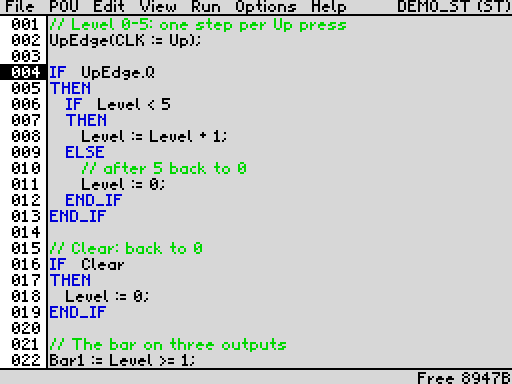
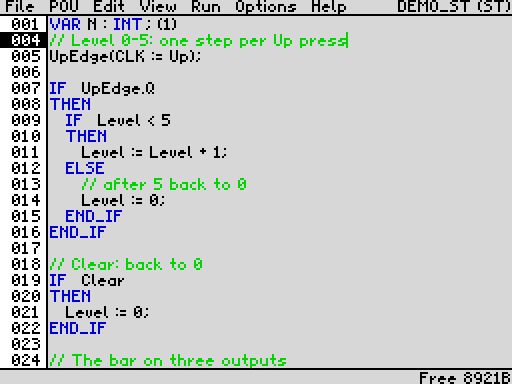
ST local variables: demo, manual, screenshots
DEMO_ST declares its FOR counter N as a local (the N symbol on %MW3 is
gone). Manual chapter 9: local variables (syntax, folding, the
declaration popup, simulation), limits; README, CLAUDE.md; a new
screenshot st_vars.

Claude-Session: https://claude.ai/code/session_01VKWfWdLZ4jVfo626yCcR9d

diff --git a/tools/docshots.py b/tools/docshots.py
@@ -41,6 +41,7 @@ SHOTS = [
     ("fbd_picker", FBD + D + "k:ENTER w30"),
     ("fbd_pv", FBD + D * 6 + "k:CS+8 w4 " * 5 + "k:T w30"),
     ("st_editor", ST + D * 3 + "w10"),
+    ("st_vars", ST + D * 4 + "k:SS+ENTER w30 t:count~:=~count~+~1; w5 " + D + "w40"),
     ("symbols", MENU + "k:E w5 k:S w60"),
     ("sim_il", IL + RUN + "k:0 w150"),
     ("sim_ld", LD + RUN + "k:4 w60"),

diff --git a/CLAUDE.md b/CLAUDE.md
@@ -106,14 +106,14 @@ editor and key for users.
   - The project at 0x9000-0xBFFF (12 KB).
 - **Paged banks at 0xC000.** `main.asm` decides which module goes where:
   - EDIT 0: IL, LD and symbol editors, simulation screen, tests (~2.8 KB free).
-  - RUN 4: compilers (also `src/st_comp.asm`), VM, bytecode at 0xF000, POU list, tape, SD card
-    (`src/sd.asm`). It is uncontended, which tape timing needs (~0.3 KB free; 0xF800-0xFDFC above
-    `BCODE_END` is still unused).
+  - RUN 4: compilers (also `src/st_comp.asm`, `src/st_var.asm`), VM, bytecode at 0xF000, POU list, tape,
+    SD card (`src/sd.asm`). It is uncontended, which tape timing needs (~0.4 KB free). Above `BCODE_END`:
+    0xF800-0xFBFF the ST tokenizer of the compiler, 0xFC00 / 0xFD00 the ST locals (LV_INIT / LV_BASE).
   - DATA 1: the popup save buffer and the clipboard (`clip_buf`, filled by `src/clip.asm`).
   - DEMO 3: `src/tools.asm` (cross references, watch / force page of the simulation, Help texts),
     `src/clip.asm` (mark / copy / cut / paste, called by the editors with `BCALL cl_cmd` / `mk_draw`),
     `src/wexpr.asm`, `src/mouse.asm`, `src/ur4.asm`, `src/trend.asm`, `menu_cmd` / `menu_active` (menu commands, check marks), the About box with twinkling stars and the top-border scroller (`tl_about`, `bd_*`) and the demo image (~1.1 KB free).
-  - FBD 6: the FBD editor and the ST editor `src/st_edit.asm` (~2.8 KB free).
+  - FBD 6: the FBD editor and the ST editor `src/st_edit.asm` (~0.3 KB free).
   - SPARE 7: undo / redo (`src/undo.asm`): the code, the history records growing up from `UM_REC`, and
     the shadow copy of the project ending at the IM2 stub. The tape load copies the project to `UM_BAK`
     (= `UM_REC`) and calls `um_reset`.
@@ -221,8 +221,7 @@ editor and key for users.
     A (`fc_link` in fbd_comp.asm, the same when placed).
 - **Structured Text** (LANG_ST):
   - Body: line records `[len][K_STXT][indent][text]` (no 0). The text is stored as typed, only
-    normalised (keywords upper case, one space between tokens), so names are resolved when compiling;
-    a later VAR / END_VAR declaration (reserved keywords today) only changes the name lookup.
+    normalised (keywords upper case, one space between tokens), so names are resolved when compiling.
   - `src/st_lex.asm`: the tokenizer and the keyword table, included twice inside `MODULE ste` (FBD bank,
     the editor) and `MODULE stc` (RUN bank, the compiler); keyword ids `KW_*`, token types `T_*`, two-char
     symbols `S_*` are in defs.asm.
@@ -235,7 +234,19 @@ editor and key for users.
     OF / REPEAT / END_x[;]; `st_commit` (st_split = lines added) and `st_add_line` apply it.
     ENTER at the end of `IF c` / `ELSIF c` / `WHILE c` / `FOR ...` / `CASE e` adds THEN (DO / OF), an
     empty line and END_x (`st_editor.auto`, table `au_tab`); a space typed after a keyword makes it
-    upper case (`st_kwup`). `st_norm` drops a ";" after END_x (`sn_semi`; the compiler takes it
+    upper case (`st_kwup`).
+  - Local variables: a `VAR` block at line 0, one `Name : BOOL|INT|TIME [:= k];` per line.
+    `st_vfind` (st_lex.asm, both banks) reads it from the body text (A = slot, HL = name -> index,
+    type; vf_cnt / vf_var / vf_end). Each local is a word at `LV_BASE` (RUN bank 0xFD00, LV_MAX 126 in
+    all POUs; the LV indices of a POU follow those of the ST POUs in lower slots, `lv_first`), initial
+    values at `LV_INIT` (0xFC00, written by `sc_var`, copied by `lv_reset` after compiling and in
+    vm_reset). Operands: area `AR_LV` + type*16, index = LV index, emitted as VM_MB / VM_MW addresses
+    (`sc_lvmode`; the VM is unchanged). `src/st_var.asm` (RUN) has the compiler part and `st_lvaddr` /
+    `st_lvrd` for the simulation monitor (descriptor bit 5: read through the RUN bank). The compiler's
+    tokenizer (MODULE stc) is at 0xF800 above the bytecode ("RUN2", nearly full).
+    Editor: the block folds while the cursor is below END_VAR (`st_fh` hidden lines; rows <-> lines
+    through `st_d` / `st_l` / `st_rowline`, summary `st_fsum`); an unknown name opens the declaration
+    popup (`st_decl`). `st_norm` drops a ";" after END_x (`sn_semi`; the compiler takes it
     as optional).
     `st_sim_row` draws a line for the simulation (cells 0-24) and puts the watched operand in rd_o;
     `st_xr_line` serves the cross references; `st_add_line` + `st_load_text` (app.asm) load text

diff --git a/docs/MANUAL.md b/docs/MANUAL.md
@@ -491,8 +491,34 @@ SUB1();                        (calls the POU SUB1)
   evaluated before every pass.
 * **CASE** labels are INT constants, lists (`2, 3`) and ranges (`4..9`).
 * A loop that never ends is stopped by the watchdog (30000 instructions per scan).
-* `VAR` ... `END_VAR` and the types `BOOL`, `INT`, `TIME` are reserved for declarations of variables
-  in a later version; today the variables are the operands and their symbols.
+
+**Local variables**
+
+![Folded VAR block and the declaration popup](img/st_vars.png)
+
+A POU can declare its own variables in a `VAR` block at its very start, one declaration per line:
+
+```
+VAR
+  Idx : INT;
+  Sum : INT := 5;     (initial value)
+  Done : BOOL;
+  Delay : TIME := T#2s;
+END_VAR
+```
+
+* The types are `BOOL`, `INT` and `TIME`; the initial value is a constant (0 / FALSE when there is none).
+  The names are not case sensitive, a local name hides a symbol with the same name.
+* The values are kept from scan to scan; Run and Reset set them to their initial values.
+* **The block folds:** while the cursor is below `END_VAR`, the block is shown as one line
+  `VAR Idx : INT; Sum : INT := 5; .. (4)` (the line numbers jump). Moving the cursor up into it opens
+  it again. ENTER after `VAR` adds an empty line and `END_VAR`.
+* **Declaration on the fly:** when a line with an unknown name (like `count := count + 1;`) is left, a
+  window asks "Declare count as:" `B` BOOL, `I` INT or `T` TIME. The declaration is added to the block
+  (a new block is made at the start of the POU), BREAK leaves the name as an error.
+* In the simulation the block is open and every declaration line shows the live value of its variable.
+* `VAR_GLOBAL`, `VAR_INPUT` and `VAR_OUTPUT` are reserved for a later version; global variables are the
+  symbols. Local FB instances (`T1 : TON`) are not possible yet: use TON0 ... with a symbol.
 
 ## 10. Symbol editor
 
@@ -659,7 +685,7 @@ inputs and outputs:
 | DEMO_IL | traffic light as a step sequence (S0.0-S0.4), one TON per step | `0` start, `1` stop | Q0.0-Q0.2 |
 | DEMO_LD | pump with self-holding, fan run-on (TOF), alert memory (P / N contacts, set / reset), blinking lamp (2 x TP) | `4`-`7` | Q0.4-Q0.6 |
 | DEMO_FBD | inlet valve with nested gates and a 2 s run-on, overflow horn (RT, SR), service counter (CTU, after 3 fills) | byte 1: `B`, then `0`-`5` | Q1.0-Q1.2 |
-| DEMO_ST | level bar: each press of Up (R_TRIG) raises Level 0-5, the bar outputs, a FOR sum and a CASE range | `2` up, `3` clear | Q0.3, Q0.7, Q1.3 |
+| DEMO_ST | level bar: each press of Up (R_TRIG) raises Level 0-5, the bar outputs, a FOR sum with a local counter and a CASE range | `2` up, `3` clear | Q0.3, Q0.7, Q1.3 |
 
 A symbol table names all of them. The watch list contains the traffic light (the ET of each of its four timers followed by its light,
 shown first on the trend page), HighLvl, Valve, Horn, TValve.ET, Fills.CV, Level (DEMO_ST) and the scan
@@ -692,5 +718,6 @@ times.
 | ST line | 60 characters |
 | ST expression | 8 nested right sides (`a - (b - (c - ...))`) |
 | ST FB call outputs (`=>`) | 4 per call |
+| ST local variables | 126 in all POUs together |
 
 For the program structure, memory map and build details see `README.md` and `CLAUDE.md`.

diff --git a/README.md b/README.md
@@ -14,8 +14,9 @@ not downloaded to a real PLC; they run in the built-in simulation with live moni
   * Instruction List: a line editor with syntax checking.
   * Ladder Diagram: contacts, coils, branches, boxes.
   * Function Block Diagram: blocks nest and make room for themselves.
-  * Structured Text: IF / CASE / FOR / WHILE / REPEAT, expressions, FB calls; keywords in blue and an
-    automatic indent.
+  * Structured Text: IF / CASE / FOR / WHILE / REPEAT, expressions, FB calls, local variables
+    (`VAR` block, folded to one line, declared on the fly); keywords in blue, an automatic indent and
+    constructs completed on ENTER.
 * **Up to 8 POUs per project:** MAIN calls the others. A project holds up to 12 KB.
 * **Standard function blocks:** TON / TOF / TP timers, CTU / CTD counters, R_TRIG / F_TRIG, SR / RS. Also
   word compare and arithmetic (GT … LT, ADD, SUB, MUL, DIV, MOVE), step flags for sequences, system flags
